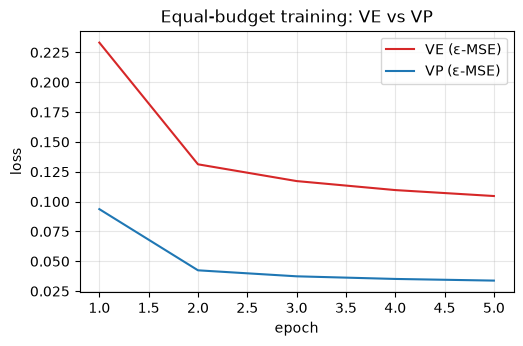
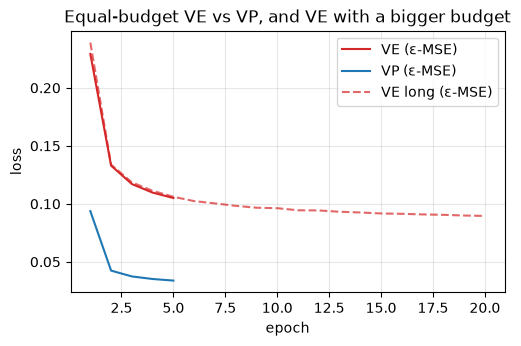
Lesson 02: VE-long branch (x4 budget) + honest VE vs VP interpretation
The equal-budget demo read as 'VP wins, VE useless'. Add a third
branch — same VE schedule and seed, 20 epochs instead of 5 — showing VE
steadily improving (loss 0.105 -> 0.090, digits emerging) but not
catching up without sigma-weighting, and explain in README why (wider
sigma ladder, closed-form VP ancestral sampler, unweighted eps-MSE;
EDM-style preconditioning/weighting is what makes VE competitive).

diff --git a/lessons/02-score-matching/lab/scripts/compare_ve_vp.py b/lessons/02-score-matching/lab/scripts/compare_ve_vp.py
@@ -2,7 +2,9 @@
 
 Trains two MiniUNets (identical architecture and hyperparameters):
 * VE branch — geometric σ ladder 80 → 0.01, additive forward noising;
-* VP branch — linear β as in lesson 01.
+* VP branch — linear β as in lesson 01;
+* VE-long branch — same VE schedule and seed, `ve_long_epochs` instead of
+  `epochs` (default ×4): shows VE catching up with more compute.
 
 Then samples side-by-side grids *from the same starting noise* and saves the
 loss-curve comparison. Artifacts → ``runs/ve_vs_vp/``.
@@ -70,6 +72,21 @@ def main() -> None:
                                 log_csv=out_dir / "loss_vp.csv")
     torch.save(vp_model.state_dict(), out_dir / "model_vp.pt")
 
+    # --- VE with a bigger budget: does it catch up? ---------------------------
+    # Same schedule and seed as the equal-budget VE branch, only more epochs —
+    # the loss curve shows the same trajectory extended, not a new run.
+    ve_long_epochs = int(section.ve_long_epochs)
+    if ve_long_epochs > int(section.epochs):
+        print("training VE-long branch (%d epochs)..." % ve_long_epochs)
+        ve_long_model = build_mnist_unet(cfg)
+        ve_long_losses = train_eps_model(
+            ve_long_model, loader, ve_sched, epochs=ve_long_epochs,
+            lr=float(section.lr), device=device, seed=int(section.seed),
+            log_csv=out_dir / "loss_ve_long.csv")
+        torch.save(ve_long_model.state_dict(), out_dir / "model_ve_long.pt")
+    else:
+        ve_long_model, ve_long_losses = ve_model, ve_losses
+
     # --- Side-by-side samples from the SAME starting noise (spec §ve-vp) ----
     n = int(section.n_samples)
     gen = torch.Generator(device=device).manual_seed(int(section.seed))
@@ -82,16 +99,21 @@ def main() -> None:
     x_vp = sample_vp(vp_model, vp_sched, (n, 1, 28, 28),
                      generator=torch.Generator(device=device)
                      .manual_seed(int(section.seed) + 1), device=device)
+    x_ve_long = sample_ve(ve_long_model, ve_sched, (n, 1, 28, 28),
+                          generator=torch.Generator(device=device)
+                          .manual_seed(int(section.seed) + 1), device=device)
     save_sample_grid(x_ve, out_dir / "samples_ve.png", "VE samples")
     save_sample_grid(x_vp, out_dir / "samples_vp.png", "VP samples")
+    save_sample_grid(x_ve_long, out_dir / "samples_ve_long.png", "VE long-budget samples")
 
-    fig, axes = plt.subplots(1, 2, figsize=(9, 4.6))
-    show = lambda ax, x, ttl: ax.imshow(
+    fig, axes = plt.subplots(1, 3, figsize=(13, 4.6))
+    show = lambda ax, x: ax.imshow(
         (x[:16].detach().cpu() * 0.3081 + 0.1307).clamp(0, 1)
         .reshape(2, 8, 28, 28).permute(0, 2, 1, 3).reshape(56, 224), cmap="gray_r")
-    show(axes[0], x_ve, "VE"); axes[0].set_title("VE", fontsize=10); axes[0].axis("off")
-    show(axes[1], x_vp, "VP"); axes[1].set_title("VP", fontsize=10); axes[1].axis("off")
-    fig.suptitle("Same starting noise: VE (left) vs VP (right)", y=0.98)
+    show(axes[0], x_ve); axes[0].set_title("VE (equal budget)", fontsize=10); axes[0].axis("off")
+    show(axes[1], x_ve_long); axes[1].set_title("VE (%d epochs)" % ve_long_epochs, fontsize=10); axes[1].axis("off")
+    show(axes[2], x_vp); axes[2].set_title("VP (equal budget)", fontsize=10); axes[2].axis("off")
+    fig.suptitle("Same starting noise: VE equal/long budget vs VP", y=0.98)
     fig.savefig(out_dir / "samples_side_by_side.png", bbox_inches="tight")
     plt.close(fig)
 
@@ -101,8 +123,12 @@ def main() -> None:
             color="#d62728", lw=1.5)
     ax.plot(range(1, len(vp_losses) + 1), vp_losses, label="VP (ε-MSE)",
             color="#1f77b4", lw=1.5)
+    if len(ve_long_losses) > len(ve_losses):
+        ax.plot(range(1, len(ve_long_losses) + 1), ve_long_losses,
+                label="VE long (ε-MSE)", color="#d62728", lw=1.5, ls="--",
+                alpha=0.7)
     ax.set_xlabel("epoch"); ax.set_ylabel("loss"); ax.legend(); ax.grid(alpha=0.3)
-    ax.set_title("Equal-budget training: VE vs VP")
+    ax.set_title("Equal-budget VE vs VP, and VE with a bigger budget")
     fig.savefig(out_dir / "loss_curves.png", bbox_inches="tight")
     plt.close(fig)
 
